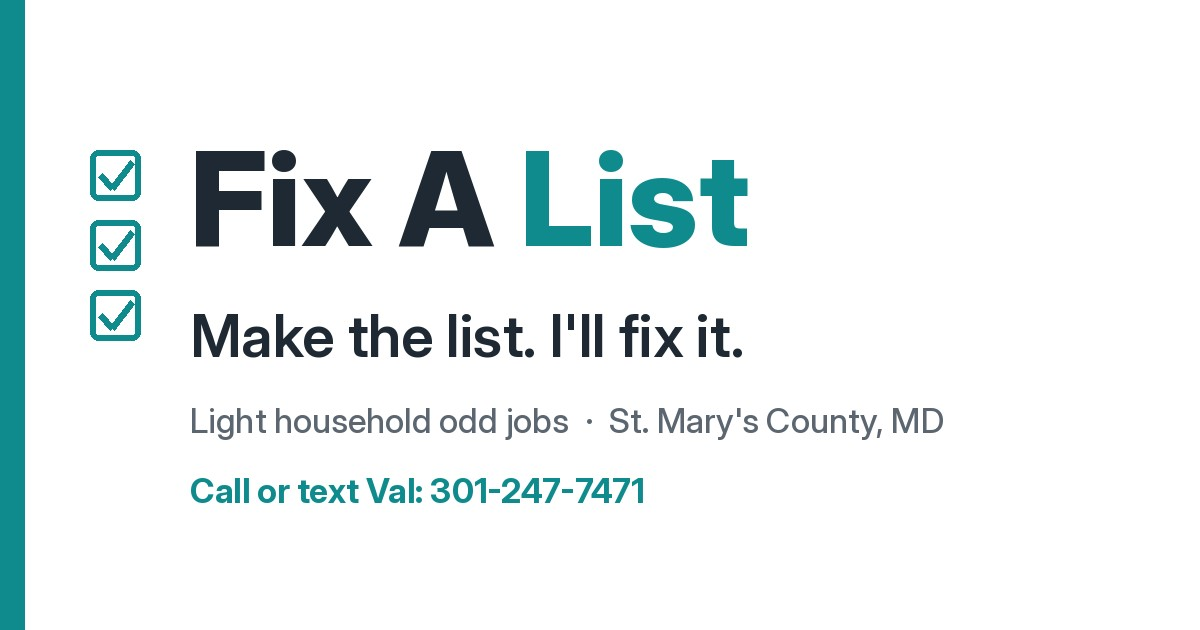
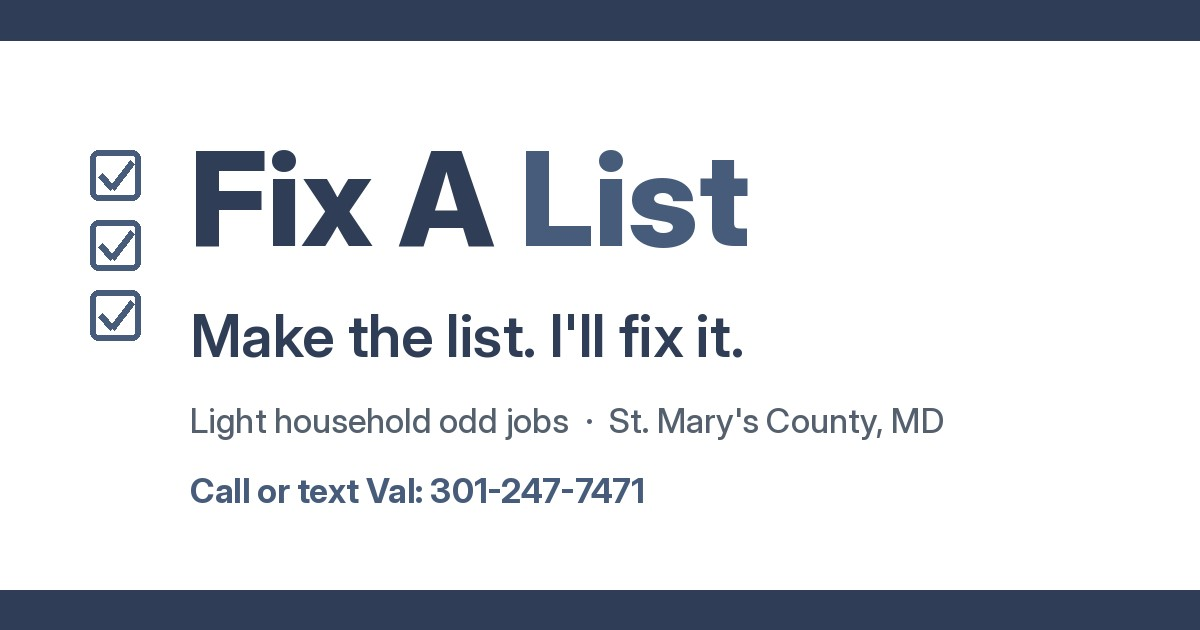
Slate blue theme

diff --git a/index.html b/index.html
@@ -9,29 +9,29 @@
 <meta property="og:title" content="Fix A List – Make the list. I'll fix it.">
 <meta property="og:description" content="Honey-do list help for light household odd jobs in St. Mary's County, MD. Call or text Val: 301-247-7471.">
 <meta property="og:url" content="https://vvrukk8.github.io/fix-a-list/">
-<meta property="og:image" content="https://vvrukk8.github.io/fix-a-list/og-preview.jpg?v=1">
+<meta property="og:image" content="https://vvrukk8.github.io/fix-a-list/og-preview.jpg?v=2">
 <meta property="og:image:width" content="1200">
 <meta property="og:image:height" content="630">
 <meta name="twitter:card" content="summary_large_image">
-<meta name="twitter:image" content="https://vvrukk8.github.io/fix-a-list/og-preview.jpg?v=1">
+<meta name="twitter:image" content="https://vvrukk8.github.io/fix-a-list/og-preview.jpg?v=2">
 <style>
-:root{--a:#0f8b8d;--ad:#0b6e70;--t:#1f2933;--m:#5b6670;--l:#e6eef0}
+:root{--a:#475C7A;--ad:#2F3E56;--t:#1f2933;--m:#55606e;--l:#dfe5ee}
 *{box-sizing:border-box}
 body{margin:0;font-family:system-ui,-apple-system,"Segoe UI",Roboto,Inter,sans-serif;color:var(--t);background:#fff;line-height:1.6}
 .w{max-width:760px;margin:0 auto;padding:0 20px}
-header{padding:18px 0;border-bottom:1px solid var(--l)}
+header{padding:18px 0;background:var(--ad);color:#fff}
 header .w{display:flex;justify-content:space-between;align-items:center}
-.logo{font-weight:800;font-size:1.3rem}.logo span{color:var(--a)}
-header a.ph{color:var(--a);font-weight:600;text-decoration:none}
+.logo{font-weight:800;font-size:1.3rem}.logo span{color:#c9d4e3}
+header a.ph{color:#fff;font-weight:600;text-decoration:none}
 section{padding:48px 0}
 h1{font-size:2.3rem;line-height:1.15;margin:0 0 12px}
-h1 span{color:var(--a)}
+h1 span{color:var(--ad)}
 h2{font-size:1.5rem;margin:0 0 16px}
 .lead{font-size:1.15rem;color:var(--m)}
 .btn{display:inline-block;background:var(--a);color:#fff;border:0;border-radius:8px;padding:13px 22px;font-size:1rem;font-weight:600;text-decoration:none;cursor:pointer;margin:6px 8px 6px 0}
 .btn:hover{background:var(--ad)}
 .btn.o{background:#fff;color:var(--a);border:2px solid var(--a)}
-.alt{background:#f6fafa}
+.alt{background:#EEF2F7}
 .steps{display:grid;gap:16px}
 .step{display:flex;gap:14px;align-items:flex-start}
 .n{flex:0 0 40px;height:40px;border-radius:50%;background:var(--a);color:#fff;font-weight:700;display:flex;align-items:center;justify-content:center}
@@ -39,7 +39,7 @@ h2{font-size:1.5rem;margin:0 0 16px}
 ul.list{list-style:none;padding:0;columns:2;column-gap:24px}
 ul.list li{padding:6px 0 6px 28px;position:relative;break-inside:avoid}
 ul.list li:before{content:"";position:absolute;left:0;top:11px;width:14px;height:14px;border:2px solid var(--a);border-radius:3px}
-.note{border-left:4px solid var(--a);background:#f6fafa;padding:14px 18px;border-radius:4px;color:var(--m);font-size:.95rem}
+.note{border-left:4px solid var(--a);background:#EEF2F7;padding:14px 18px;border-radius:4px;color:var(--m);font-size:.95rem}
 form{display:grid;gap:6px}
 label{font-weight:600;margin-top:8px}
 input,textarea{font:inherit;padding:11px;border:1px solid #cfd8dc;border-radius:8px;width:100%}
